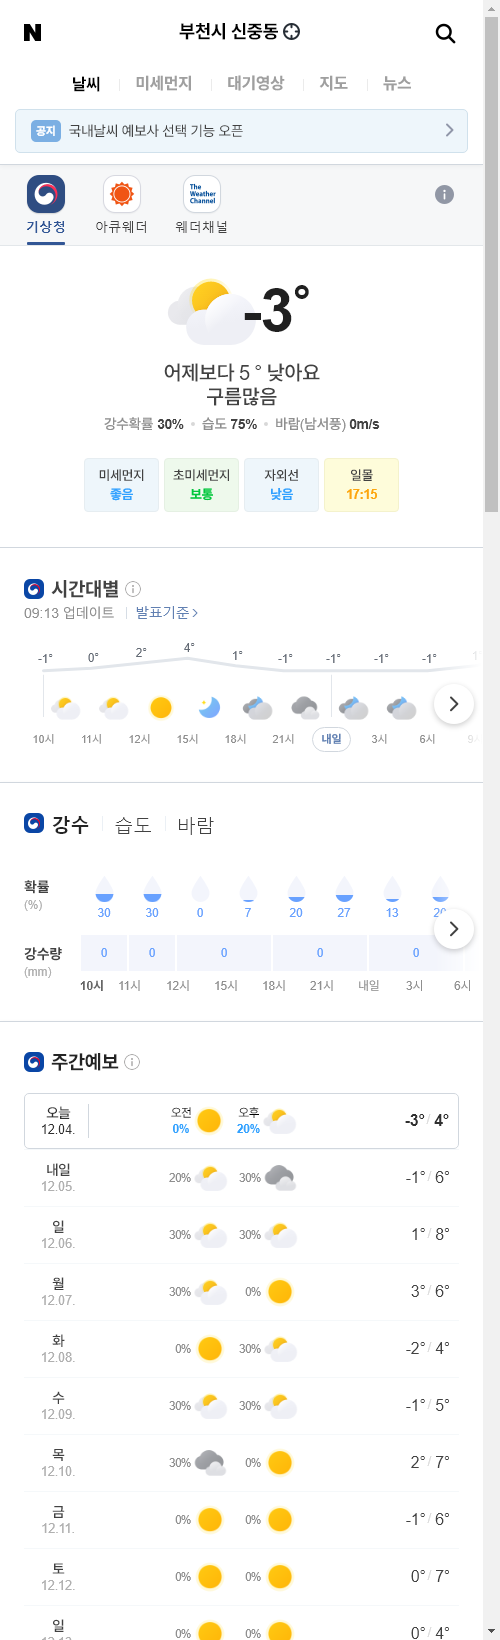
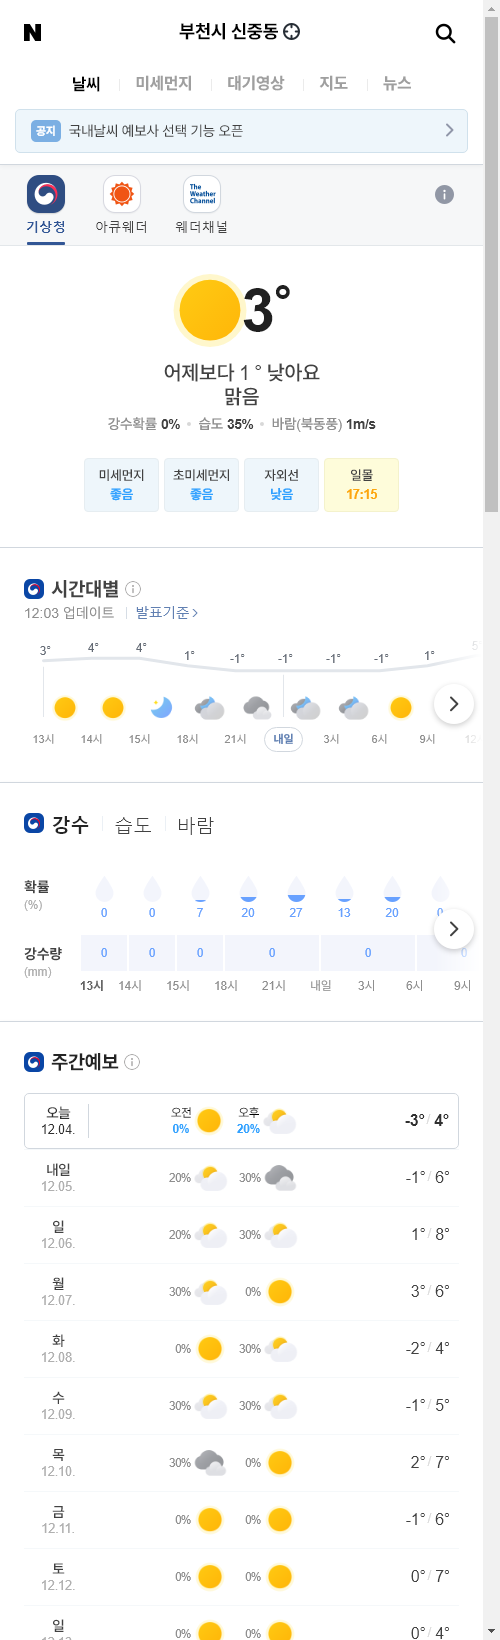
update result

diff --git a/README.md b/README.md
@@ -1,13 +1,13 @@
-##  2020-12-04 09:16:46   금요일 
-##### 날씨   -   어제보다 5 ° 낮아요구름많음
+##  2020-12-04 12:07:30   금요일 
+##### 날씨   -   어제보다 1 ° 낮아요맑음
 <center><img src="../img/naver_weather_week.png"></center>
 ----
 ----
 ##### 지수
 <table border="1" bordercolor="blue" align = "center" >
 <tr align = "right" > <td>Item</td><td>Point</td><td>Diff</td><td>Rate</td><td>Buy</td><td>Sell</td><td>...</td>  </tr>
-<tr align = "right" > <td>KOSPI</td><td>2,723.1</td><td>26.88</td><td><font size="3" color="red" >1.0%</font> </td><td><font size="3" color="black">2,000</font></td><td><font size="3" color="black">3,000</font></td><td>0</td>  </tr>
-<tr align = "right" > <td>KOSDAQ</td><td>911.53</td><td>3.92</td><td><font size="3" color="red" >0.43%</font> </td><td><font size="3" color="black">0</font></td><td><font size="3" color="black">0</font></td><td>0</td>  </tr>
+<tr align = "right" > <td>KOSPI</td><td>2,739.57</td><td>43.35</td><td><font size="3" color="red" >1.61%</font> </td><td><font size="3" color="black">2,000</font></td><td><font size="3" color="black">3,000</font></td><td>0</td>  </tr>
+<tr align = "right" > <td>KOSDAQ</td><td>911.04</td><td>3.43</td><td><font size="3" color="red" >0.38%</font> </td><td><font size="3" color="black">0</font></td><td><font size="3" color="black">0</font></td><td>0</td>  </tr>
 </table>
 ----
 ##### 세계
@@ -16,14 +16,14 @@
 <tr align = "right" > <td>DOW</td><td>29,969.52</td><td>85.73</td><td><font size="3" color="red" >0.29%</font></td><td><font size="3" color="black">0</font></td><td><font size="3" color="black">0</font></td><td>0</td>  </tr>
 <tr align = "right" > <td>NASDAQ</td><td>12,377.18</td><td>27.81</td><td><font size="3" color="red" >0.23%</font></td><td><font size="3" color="black">0</font></td><td><font size="3" color="black">0</font></td><td>0</td>  </tr>
 <tr align = "right" > <td>S&P</td><td>3,666.72</td><td>-2.29</td><td><font size="3" color="blue" >-0.06%</font></td><td><font size="3" color="black">0</font></td><td><font size="3" color="black">0</font></td><td>0</td>  </tr>
-<tr align = "right" > <td>SHANHAI</td><td>3,442.14</td><td>-7.24</td><td><font size="3" color="blue" >-0.21%</font></td><td><font size="3" color="black">0</font></td><td><font size="3" color="black">0</font></td><td>0</td>  </tr>
+<tr align = "right" > <td>SHANHAI</td><td>3,428.09</td><td>-14.05</td><td><font size="3" color="blue" >-0.41%</font></td><td><font size="3" color="black">0</font></td><td><font size="3" color="black">0</font></td><td>0</td>  </tr>
 <tr align = "right" > <td>INDIA</td><td>44,632.65</td><td>14.61</td><td><font size="3" color="red" >0.03%</font></td><td><font size="3" color="black">0</font></td><td><font size="3" color="black">0</font></td><td>0</td>  </tr>
 </table>
 ----
 ##### 시장
 <table border="1" bordercolor="blue" align = "center" >
 <tr align = "right" > <td>Item</td><td>Price</td><td>Diff</td><td>Rate</td><td>Buy</td><td>Sell</td><td>...</td>  </tr>
-<tr align = "right" > <td>USD</td><td>1,092.0</td><td>-1.4</td><td><font size="3" color="blue">-0.13%</font></td><td><font size="3" color="orangered">1,110</font></td><td><font size="3" color="black">0</font></td><td>0</td>  </tr>
+<tr align = "right" > <td>USD</td><td>1,085.0</td><td>-8.8</td><td><font size="3" color="blue">-0.8%</font></td><td><font size="3" color="orangered">1,110</font></td><td><font size="3" color="black">0</font></td><td>0</td>  </tr>
 <tr align = "right" > <td>WTI</td><td>45.64</td><td>0.36</td><td><font size="3" color="red">0.79%</font></td><td><font size="3" color="black">29.0</font></td><td><font size="3" color="black">0</font></td><td>0</td>  </tr>
 <tr align = "right" > <td>GOLD</td><td>1,836.0</td><td>11.1</td><td><font size="3" color="red">0.6%</font></td><td><font size="3" color="black">0</font></td><td><font size="3" color="black">0</font></td><td>0</td>  </tr>
 </table>
@@ -31,23 +31,23 @@
 ##### 주가
 <table border="1" bordercolor="blue" align = "center" >
 <tr align = "right" > <td>Item</td><td>Price</td><td>Diff</td><td>Rate</td><td>Purchased</td><td>Sell</td><td>Buy</td>  </tr>
-<tr align = "right" > <td>한국 전력</td><td>22,350</td><td>0</td><td><font size="3" color="black">0.0%</font></td><td>25,720</td><td><font size="3" color="black">30,000</font></td><td><font size="3" color="black">14,000</font></td>  </tr>
-<tr align = "right" > <td>삼성엔지니어.</td><td>13,750</td><td>150</td><td><font size="3" color="red">1.1%</font></td><td>18,935</td><td><font size="3" color="black">20,000</font></td><td><font size="3" color="black">8,000</font></td>  </tr>
-<tr align = "right" > <td>CJ CGV</td><td>23,900</td><td>-600</td><td><font size="3" color="blue">-2.45%</font></td><td>34,895</td><td><font size="3" color="black">36,000</font></td><td><font size="3" color="black">0</font></td>  </tr>
-<tr align = "right" > <td>아모레퍼시픽</td><td>192,000</td><td>-3,500</td><td><font size="3" color="blue">-1.79%</font></td><td>235,350</td><td><font size="3" color="black">240,000</font></td><td><font size="3" color="black">130,000</font></td>  </tr>
-<tr align = "right" > <td>한화</td><td>26,550</td><td>-50</td><td><font size="3" color="blue">-0.19%</font></td><td>25,550</td><td><font size="3" color="black">30,000</font></td><td><font size="3" color="black">20,000</font></td>  </tr>
-<tr align = "right" > <td>NAVER</td><td>286,500</td><td>-500</td><td><font size="3" color="blue">-0.17%</font></td><td>147,200</td><td><font size="3" color="black">400,000</font></td><td><font size="3" color="black">150,000</font></td>  </tr>
-<tr align = "right" > <td>LG 화학우</td><td>381,000</td><td>1,500</td><td><font size="3" color="red">0.4%</font></td><td>202,490</td><td><font size="3" color="black">500,000</font></td><td><font size="3" color="black">200,000</font></td>  </tr>
-<tr align = "right" > <td>스튜디오드래.</td><td>83,500</td><td>-900</td><td><font size="3" color="blue">-1.07%</font></td><td>81,243</td><td><font size="3" color="black">100,000</font></td><td><font size="3" color="black">78,000</font></td>  </tr>
-<tr align = "right" > <td>글로벌럭셔리</td><td>14,450</td><td>120</td><td><font size="3" color="red">0.84%</font></td><td>0</td><td><font size="3" color="black">15,000</font></td><td><font size="3" color="black">10,000</font></td>  </tr>
-<tr align = "right" > <td>QV미국IT</td><td>25,270</td><td>0</td><td><font size="3" color="black">0.0%</font></td><td>0</td><td><font size="3" color="black">30,000</font></td><td><font size="3" color="black">20,000</font></td>  </tr>
-<tr align = "right" > <td>호텔 신라</td><td>83,000</td><td>400</td><td><font size="3" color="red">0.48%</font></td><td>72,800</td><td><font size="3" color="black">100,000</font></td><td><font size="3" color="black">70,000</font></td>  </tr>
-<tr align = "right" > <td>S-Oil</td><td>70,800</td><td>-400</td><td><font size="3" color="blue">-0.56%</font></td><td>62,842</td><td><font size="3" color="black">100,000</font></td><td><font size="3" color="black">50,000</font></td>  </tr>
-<tr align = "right" > <td>LG전자</td><td>90,200</td><td>-100</td><td><font size="3" color="blue">-0.11%</font></td><td>82,022</td><td><font size="3" color="black">100,000</font></td><td><font size="3" color="black">60,000</font></td>  </tr>
-<tr align = "right" > <td>지역난방공사</td><td>40,050</td><td>-200</td><td><font size="3" color="blue">-0.5%</font></td><td>43,590</td><td><font size="3" color="black">60,000</font></td><td><font size="3" color="black">30,000</font></td>  </tr>
+<tr align = "right" > <td>한국 전력</td><td>22,150</td><td>-200</td><td><font size="3" color="blue">-0.89%</font></td><td>25,720</td><td><font size="3" color="black">30,000</font></td><td><font size="3" color="black">14,000</font></td>  </tr>
+<tr align = "right" > <td>삼성엔지니어.</td><td>13,500</td><td>-100</td><td><font size="3" color="blue">-0.74%</font></td><td>18,935</td><td><font size="3" color="black">20,000</font></td><td><font size="3" color="black">8,000</font></td>  </tr>
+<tr align = "right" > <td>CJ CGV</td><td>23,450</td><td>-1,050</td><td><font size="3" color="blue">-4.29%</font></td><td>34,895</td><td><font size="3" color="black">36,000</font></td><td><font size="3" color="black">0</font></td>  </tr>
+<tr align = "right" > <td>아모레퍼시픽</td><td>191,000</td><td>-4,500</td><td><font size="3" color="blue">-2.3%</font></td><td>235,350</td><td><font size="3" color="black">240,000</font></td><td><font size="3" color="black">130,000</font></td>  </tr>
+<tr align = "right" > <td>한화</td><td>26,250</td><td>-350</td><td><font size="3" color="blue">-1.32%</font></td><td>25,550</td><td><font size="3" color="black">30,000</font></td><td><font size="3" color="black">20,000</font></td>  </tr>
+<tr align = "right" > <td>NAVER</td><td>295,000</td><td>8,000</td><td><font size="3" color="red">2.79%</font></td><td>147,200</td><td><font size="3" color="black">400,000</font></td><td><font size="3" color="black">150,000</font></td>  </tr>
+<tr align = "right" > <td>LG 화학우</td><td>386,000</td><td>6,500</td><td><font size="3" color="red">1.71%</font></td><td>202,490</td><td><font size="3" color="black">500,000</font></td><td><font size="3" color="black">200,000</font></td>  </tr>
+<tr align = "right" > <td>스튜디오드래.</td><td>83,100</td><td>-1,300</td><td><font size="3" color="blue">-1.54%</font></td><td>81,243</td><td><font size="3" color="black">100,000</font></td><td><font size="3" color="black">78,000</font></td>  </tr>
+<tr align = "right" > <td>글로벌럭셔리</td><td>14,385</td><td>55</td><td><font size="3" color="red">0.38%</font></td><td>0</td><td><font size="3" color="black">15,000</font></td><td><font size="3" color="black">10,000</font></td>  </tr>
+<tr align = "right" > <td>QV미국IT</td><td>25,105</td><td>-165</td><td><font size="3" color="blue">-0.65%</font></td><td>0</td><td><font size="3" color="black">30,000</font></td><td><font size="3" color="black">20,000</font></td>  </tr>
+<tr align = "right" > <td>호텔 신라</td><td>81,700</td><td>-900</td><td><font size="3" color="blue">-1.09%</font></td><td>72,800</td><td><font size="3" color="black">100,000</font></td><td><font size="3" color="black">70,000</font></td>  </tr>
+<tr align = "right" > <td>S-Oil</td><td>70,400</td><td>-800</td><td><font size="3" color="blue">-1.12%</font></td><td>62,842</td><td><font size="3" color="black">100,000</font></td><td><font size="3" color="black">50,000</font></td>  </tr>
+<tr align = "right" > <td>LG전자</td><td>90,300</td><td>0</td><td><font size="3" color="black">0.0%</font></td><td>82,022</td><td><font size="3" color="black">100,000</font></td><td><font size="3" color="black">60,000</font></td>  </tr>
+<tr align = "right" > <td>지역난방공사</td><td>39,950</td><td>-300</td><td><font size="3" color="blue">-0.75%</font></td><td>43,590</td><td><font size="3" color="black">60,000</font></td><td><font size="3" color="black">30,000</font></td>  </tr>
 <tr align = "right" > <td>KOEDX은행</td><td>6,360</td><td>55</td><td><font size="3" color="red">0.87%</font></td><td>5,178</td><td><font size="3" color="black">6,000</font></td><td><font size="3" color="black">4,500</font></td>  </tr>
-<tr align = "right" > <td>삼성 전자우</td><td>64,700</td><td>300</td><td><font size="3" color="red">0.47%</font></td><td>48,250</td><td><font size="3" color="black">56,000</font></td><td><font size="3" color="black">45,000</font></td>  </tr>
-<tr align = "right" > <td>한화에어로스.</td><td>26,900</td><td>50</td><td><font size="3" color="red">0.19%</font></td><td>25,700</td><td><font size="3" color="black">30,000</font></td><td><font size="3" color="black">24,000</font></td>  </tr>
-<tr align = "right" > <td>한국금융지주</td><td>79,200</td><td>1,300</td><td><font size="3" color="red">1.67%</font></td><td>0</td><td><font size="3" color="black">82,000</font></td><td><font size="3" color="black">60,000</font></td>  </tr>
+<tr align = "right" > <td>삼성 전자우</td><td>65,900</td><td>1,500</td><td><font size="3" color="red">2.33%</font></td><td>48,250</td><td><font size="3" color="black">56,000</font></td><td><font size="3" color="black">45,000</font></td>  </tr>
+<tr align = "right" > <td>한화에어로스.</td><td>26,800</td><td>-50</td><td><font size="3" color="blue">-0.19%</font></td><td>25,700</td><td><font size="3" color="black">30,000</font></td><td><font size="3" color="black">24,000</font></td>  </tr>
+<tr align = "right" > <td>한국금융지주</td><td>81,700</td><td>3,800</td><td><font size="3" color="red">4.88%</font></td><td>0</td><td><font size="3" color="black">82,000</font></td><td><font size="3" color="black">60,000</font></td>  </tr>
 </table>
 ----
